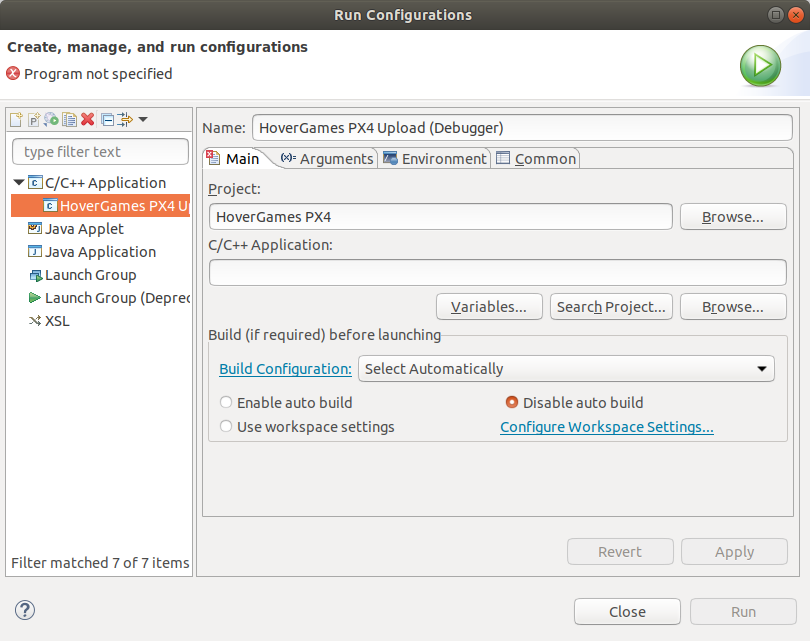
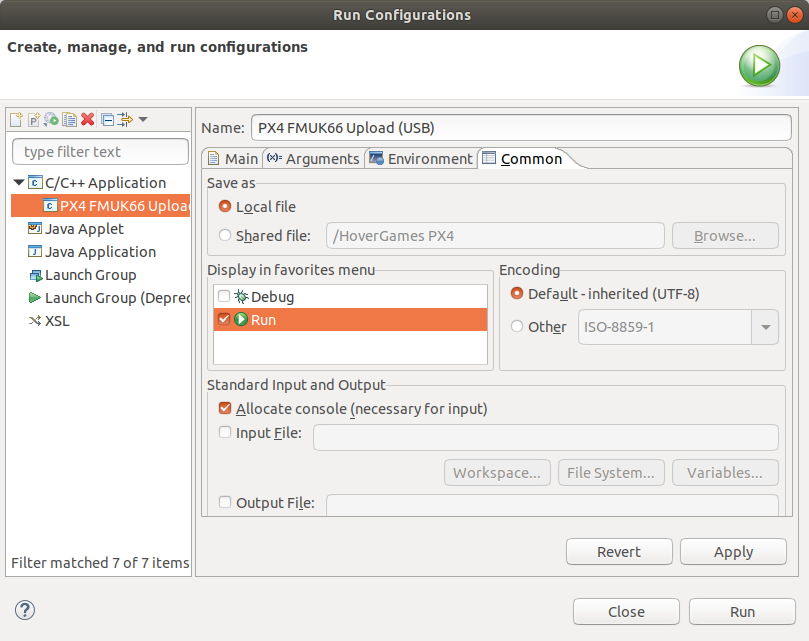
GitBook: [master] 97 pages and 12 assets modified

diff --git a/developerguide/tools/mcuxpresso.md b/developerguide/tools/mcuxpresso.md
@@ -103,83 +103,94 @@ Give it a try, the console at the bottom of the IDE window will show the progres
 
 ## Run configuration
 
-{% hint style="danger" %}
-The remainder of this section is in the process of being updated! It may contain mistakes or steps that are no longer needed. Continue at your own risk.
-{% endhint %}
-
 We can now build the PX4 firmware with MCUXpresso. We are now going to also add a _run_ configuration to flash the binary directly to the FMUK66 board with **just a USB cable**, without debugger!
 
 {% hint style="info" %}
 Flashing the PX4 firmware without a debugger is only possible [if the bootloader has already been flashed](../../userguide/programming.md) \(with a compatible debugger and a tool such as JLink Commander\).
 {% endhint %}
 
-At the top of the screen, you have a green "Run" icon. Click on the small arrow next to it, and select "Run Configurations...". In the window that opens, select "C/C++ Application" and click the "New" button above it. Name the newly created configuration "PX4 FMUK66 Upload \(USB\)", and change the field under "C/C++ Application" to `/usr/bin/make`. 
-
-Also select "Disable auto build", this will prevent the IDE from automatically building the firmware again when you try to flash your current build to the board. That also means that you always have to use the hammer icon to build the firmware yourself.
+At the top of the screen, you have a green "Run" icon. Click on the small arrow next to it, and select "Run Configurations...". In the window that opens, select "C/C++ Application" and click the "New" button above it. Name the newly created configuration "PX4 FMUK66 Upload \(USB\)" to remind you that this will flash the firmware using only USB. Change the field under "C/C++ Application" to `/usr/bin/make`. 
 
 ![](../../.gitbook/assets/hg_mcuxpresso14.png)
 
-![](../../.gitbook/assets/hg_mcuxpresso17.png)
-
-Click on the "Search Project..." button under "C/C++ Applicatoin:" to look for a binary file within the project. If you have build the firmware already it should list "nxp\_fmuk66-v3\_default.elf". If it does not, save the configuration that you are working on and first run a build.
-
-![](../../.gitbook/assets/hg_mcuxpresso18.png)
-
-
+![](../../.gitbook/assets/hg_mcuxpresso15.png)
 
 Also go into the "Arguments" tab and add `nxp_fmuk66-v3_default upload` into "Program arguments".
 
-![](../../.gitbook/assets/image%20%2877%29.png)
+![](../../.gitbook/assets/hg_mcuxpresso16.png)
 
-Finally, go into the "Common" tab. Tick the checkbox in front of "Run" under "DIsplay in favorites menu". Press apply and close the window.
+Finally, go into the "Common" tab. Tick the checkbox in front of "Run" under "Display in favorites menu". Press apply and close the window. You can now upload firmware binaries to the FMUK66 with just the USB cable by clicking on the green "run" icon in the toolbar.
 
-![](../../.gitbook/assets/image%20%2843%29.png)
+![](../../.gitbook/assets/hg_mcuxpresso17.png)
 
 ## Debug Configurations
 
-Make sure you still have the right project selected on the left. Also make sure your J-Link debugger is plugged in and correctly passed through to your VM \([verify that you added the J-Link debugger in the USB tab of the VM settings](virtual-machine.md#virtual-machine-settings)\). Now in the bottom left of your screen, in the quickstart panel, press the blue bug icon with the label "Debug". 
+The next step is to also add a _debug_ configuration. This requires the J-Link EDU Mini debugger that is included with the drone kit. Make sure the debugger is plugged in to your computer and passed through to the VM \([verify that you added the J-Link debugger in the USB tab of the VM settings](virtual-machine.md#virtual-machine-settings)\). 
 
-![](../../.gitbook/assets/image%20%2818%29.png)
+Now in the bottom left of your screen, in the quickstart panel, press the blue bug icon with the label "Debug". Make sure that you have the right project \("HoverGames PX4"\) selected in the project browser on the top left!
+
+![](../../.gitbook/assets/hg_mcuxpresso18.png)
 
 A new window opens and should show the attached J-Link debugger. Select it and press "OK".
 
-![](../../.gitbook/assets/image%20%2862%29.png)
+![](../../.gitbook/assets/hg_mcuxpresso19.png)
 
-In the next screen, you should make the "Name" column a bit wider and select "nxp\_fmuk66-v3\_default.elf". Then, press "OK". It might start building the code and start a debug session. Wait for it to finish \(there is an indicator at the bottom\), and then press the button in the top bar with the two red squares, to stop all debugging sessions. It might also give an error and stop by itself.
+In the next screen, you should make the "Name" column a bit wider and select "nxp\_fmuk66-v3\_default.elf". If this file is not being shown, you should cancel and first build the software \(you can click on the [hammer icon as mentioned previously](mcuxpresso.md#project-properties), or build "manually" [in the terminal](../building-firmware.md)\).
 
-![](../../.gitbook/assets/image%20%2871%29.png)
+When you have the .elf file selected, press "OK". It might start building the code and start a debug session. Wait for it to finish \(there is an indicator at the bottom\). Then press the "Terminate All Debug sessions" button in the top bar \(the red square next to the resume and pause buttons\) to stop all debugging sessions.
 
-We first need to change the configuration. Click on the small arrow between the green debug icon and the green run button. Go to "Debug Configurations...".
+![](../../.gitbook/assets/hg_mcuxpresso20.png)
 
-![](../../.gitbook/assets/image%20%28154%29.png)
+We should make sure that the generated configuration is correct and make some small changes. Click on the small arrow between the green debug icon and the green run button. Go to "Debug Configurations...".
 
-Under "GDB SEGGER Interface Debugging", select the generated JLink configuration. Rename it to "HoverGames PX4 JLink Debug". In this same screen, make sure "nxp\_fmuk66-v3\_default.elf" is selected in the field under "C/C++ Application". Then, under "Build Configuration", select "Debug" from the dropdown menu.
+![](../../.gitbook/assets/hg_mcuxpresso21.png)
 
-![](../../.gitbook/assets/image%20%2819%29.png)
+Under "GDB SEGGER Interface Debugging", select the generated JLink configuration. It is probably called something like "HoverGames PX4 JLink PX4 FMUK66 Default". Make sure "nxp\_fmuk66-v3\_default.elf" is selected in the field under "C/C++ Application".
 
-Switch to the "Common" tab, and tick the checkbox in front of "Debug" under "Display in favorites menu". Press "Apply" and close the window.
+![](../../.gitbook/assets/hg_mcuxpresso22.png)
 
-![](../../.gitbook/assets/image%20%2857%29.png)
+In the "Startup" tab, disable the "Set breakpoint at" option. You can set your own breakpoints anywhere you want, we just don't need this default one.
 
-## Upload firmware to the FMUK66
+![](../../.gitbook/assets/hg_mcuxpresso23.png)
 
-If you want to do a clean build, press the clean button on the right side first. Then, click the small arrow next to the hammer button and select "Default" to build fully optimized firmware for normal use. It will build the software, the progress will be shown in the console at the bottom of the screen.
+Finally, switch to the "Common" tab, and tick the checkbox in front of "Debug" under "Display in favorites menu". Press "Apply" and close the window. You can now start a debug session with the debug icon!
 
-## Upload non-optimized firmware and start debugging session
+![](../../.gitbook/assets/hg_mcuxpresso24.png)
 
-You can start debugging by clicking the green bug icon, or click on the small arrow to the right of it and select the "HoverGames PX4 JLink Debug" configuration.
+## Upload PX4 firmware to FMUK66 using USB
 
-![](../../.gitbook/assets/image%20%28144%29.png)
+If you want to do a clean build, press the clean button on the right side first. Then, click the hammer button to build to build the PX4 firmware for the FMUK66. You can check that the build configuration is set to "PX4 FMUK66 Default" by clicking on the dropdown menu next to the hammer icon. After you start the build process, the progress will be shown in the console at the bottom of the screen.
 
-You can stop all debug sessions with the button with the two red squares.
+You can upload the firmware with the green "run" icon \(not to be confused with the "resume" icon that you can use during debugging\). You can again check that you have the right run configuration selected by clicking on the dropdown menu next to the run icon. Keep in mind that the FMUK66 needs to be connected via USB for this to work!
 
-![](../../.gitbook/assets/image%20%2817%29.png)
+{% hint style="info" %}
+If this does not work, make sure you have the FMUK66 plugged in to your computer and that there are two FMUK66 devices "passed through" to the virtual machine. One for the bootloader, and one for "normal operation". 
 
-Further documentation and videos are available on the NXP website.
+Also make sure that the board actually has a [bootloader installed](../../userguide/programming.md#programming-the-bootloader).
+{% endhint %}
 
-{% embed url="https://www.nxp.com/support/developer-resources/software-development-tools/mcuxpresso-software-and-tools/mcuxpresso-integrated-development-environment-ide:MCUXpresso-IDE?tab=Documentation\_Tab" %}
+## Start a debugging session
 
-{% embed url="https://www.nxp.com/support/developer-resources/software-development-tools/mcuxpresso-software-and-tools/mcuxpresso-integrated-development-environment-ide:MCUXpresso-IDE?tab=Design\_Support\_Tab" %}
+You can start debugging by clicking the green debug icon, or open the dropdown menu next to it and select the "HoverGames PX4 JLink PX4 FMUK66 Default" configuration. You might get a popup about switching to the debug perspective, which will rearrange some panels within the MCUXpresso window. The debug perspective provides a better overview of the different debug tools. After debugging you can change back to the default view through the "Window" menu at the top.
+
+![](../../.gitbook/assets/hg_mcuxpresso25.png)
+
+You can terminate the debug session by clicking on the button with the red square.
+
+![](../../.gitbook/assets/hg_mcuxpresso26.png)
+
+## Learn more about MCUXpresso
+
+Further [documentation](https://www.nxp.com/design/software/development-software/mcuxpresso-software-and-tools/mcuxpresso-integrated-development-environment-ide:MCUXpresso-IDE?&tab=Documentation_Tab) and [videos](https://www.nxp.com/design/software/development-software/mcuxpresso-software-and-tools/mcuxpresso-integrated-development-environment-ide:MCUXpresso-IDE?tab=Design_Support_Tab) about MCUXpresso are available on the NXP website. You will probably have to login to access some files and videos. You can [create an account for free](https://www.nxp.com/webapp-signup/register).
+
+The "Advanced Debugging with MCUXpresso IDE" series provides a great introduction to the debugging tools in MCUXpresso. Most of the tools shown in these videos can be directly applied to debugging an FMUK66 board running PX4 Autopilot.
+
+**Advanced Debugging with MCUXpresso IDE**
+
+* [Part 1: Building Debugging and Direct Flashing](https://www.nxp.com/design/training/advanced-debugging-with-mcuxpresso-ide-part-1-building-debugging-and-direct-flashing:TIP-ADVANCED-DEBUG-MCUXPRESSO-IDE-1)
+* [Part 2: Accessing Data and Peripherals](https://www.nxp.com/design/training/advanced-debugging-with-mcuxpresso-ide-part-2-accessing-data-and-peripherals:TIP-ADVANCED-DEBUG-MCUXPRESSO-IDE-2)
+* [Part 3: Code & Data Breakpoints](https://www.nxp.com/design/training/advanced-debugging-with-mcuxpresso-ide-part-3-code-data-breakpoints:TIP-ADVANCED-DEBUG-MCUXPRESSO-IDE-3)
+* [Additional ](https://www.nxp.com/design/training/advanced-debugging-with-mcuxpresso-ide-part-4-instruction-trace:TIP-ADVANCED-DEBUG-MCUXPRESSO-IDE-4)[videos](https://www.nxp.com/design/training/advanced-debugging-with-mcuxpresso-ide-part-5-freertos-task-aware-debug:TIP-ADVANCED-DEBUG-MCUXPRESSO-IDE-5) are [available](https://www.nxp.com/design/training/advanced-debugging-with-mcuxpresso-ide-part-6-swo-trace:TIP-ADVANCED-DEBUG-MCUXPRESSO-IDE-6) in this series, but are outside the scope of the HoverGames.
 
 
 
